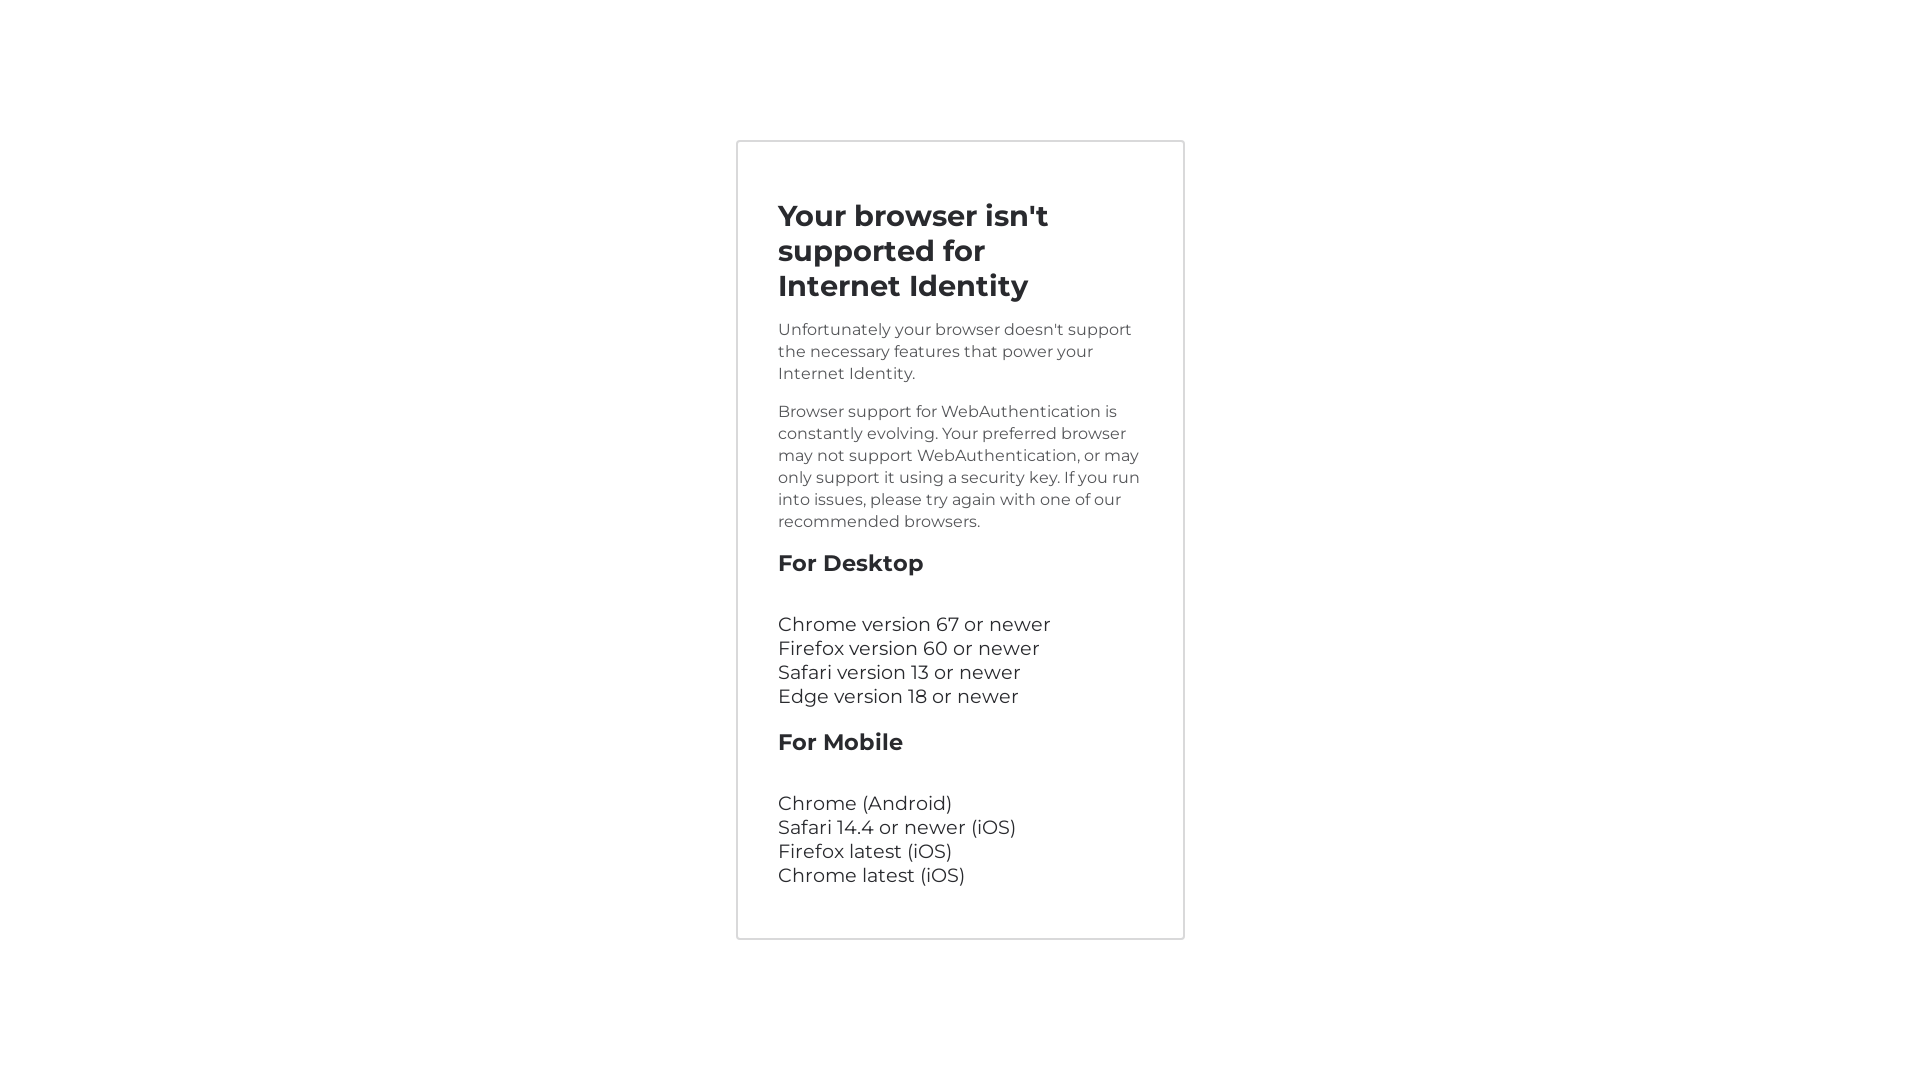
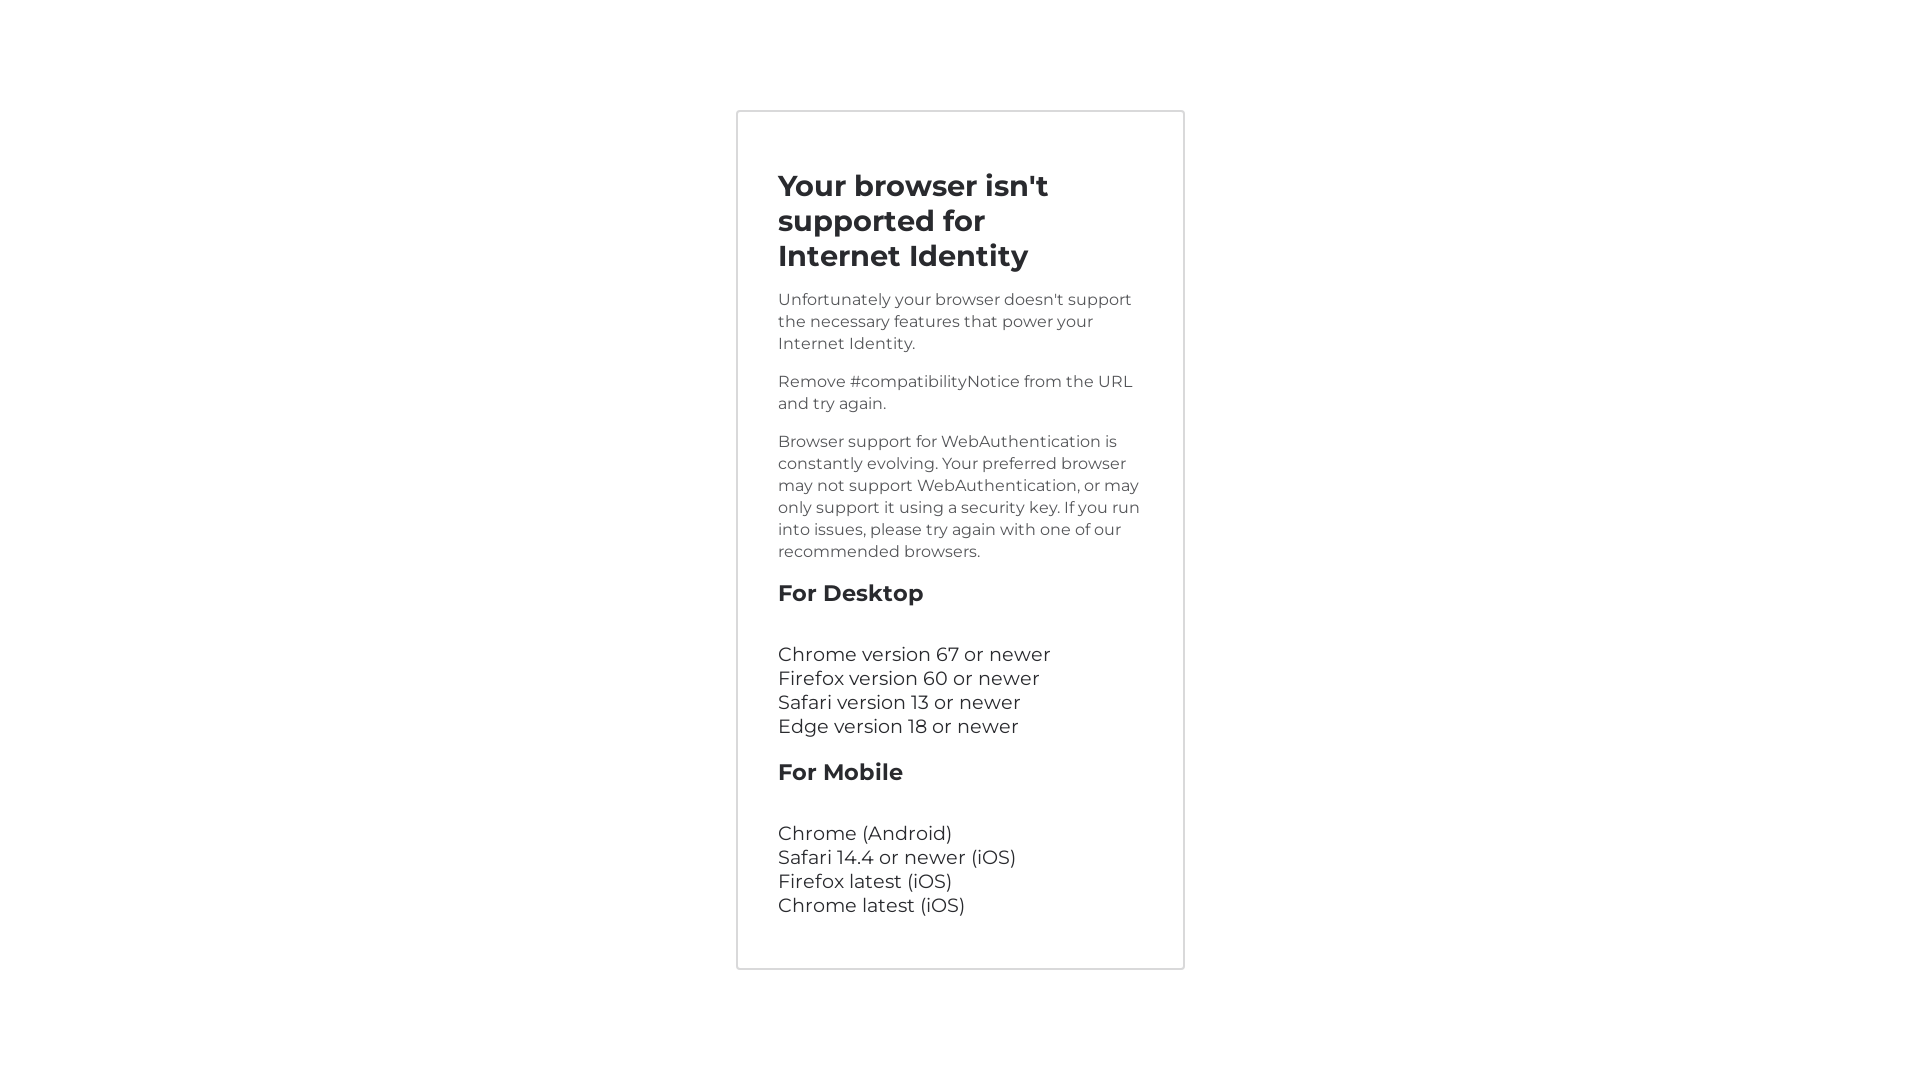
Show reason if feature check fails (#613)
* Show reason if feature check fails

This displays a reason for the feature check (compatibility check) in
the compatibility notice, which should help users understand why their
browser is not supported.

* 🤖 Selenium screenshots auto-update

Changed region(s): [[0.4062, 0.1528, 0.5938, 0.8556]]

diff --git a/src/frontend/src/utils/featureDetection.ts b/src/frontend/src/utils/featureDetection.ts
@@ -1,11 +1,17 @@
-export const hasRequiredFeatures = async (url: URL): Promise<boolean> => {
-  if (window.PublicKeyCredential === undefined) return false;
-  if (url.hash === "#compatibilityNotice") return false;
+export const checkRequiredFeatures = async (
+  url: URL
+): Promise<true | string> => {
+  if (window.PublicKeyCredential === undefined)
+    return "window.PublicKeyCredential is not defined";
+  if (url.hash === "#compatibilityNotice")
+    return "Remove #compatibilityNotice from the URL and try again.";
   // For mobile devices we want to make sure we can use platform authenticators
   if (!navigator.userAgent.match(/(iPhone|iPod|iPad|Android)/)) return true;
   try {
-    return await PublicKeyCredential.isUserVerifyingPlatformAuthenticatorAvailable();
+    return (await PublicKeyCredential.isUserVerifyingPlatformAuthenticatorAvailable())
+      ? true
+      : "UserVerifyingPlatformAuthenticator is not available";
   } catch (error) {
-    return false;
+    return `An error occured when checking for compatibility: ${error.message}`;
   }
 };

diff --git a/src/frontend/src/flows/compatibilityNotice.ts b/src/frontend/src/flows/compatibilityNotice.ts
@@ -2,7 +2,7 @@ import { html, render } from "lit-html";
 import { compatibilityChart } from "../components/compatibilityChart";
 
 // Taken from: https://caniuse.com/?search=PublicKeyCredential
-const pageContent = html`
+const pageContent = (reason: string) => html`
   <style>
     ul {
       list-style-type: none;
@@ -14,13 +14,14 @@ const pageContent = html`
     </h1>
     <p>
       Unfortunately your browser doesn't support the necessary features that
-      power your Internet Identity.
+      power your Internet Identity.<br />
     </p>
+    <p>${reason}</p>
     ${compatibilityChart}
   </div>
 `;
 
-export const compatibilityNotice = (): void => {
+export const compatibilityNotice = (reason: string): void => {
   const container = document.getElementById("pageContent") as HTMLElement;
-  render(pageContent, container);
+  render(pageContent(reason), container);
 };

diff --git a/src/frontend/src/index.ts b/src/frontend/src/index.ts
@@ -6,7 +6,7 @@ import { compatibilityNotice } from "./flows/compatibilityNotice";
 import { aboutView } from "./flows/about";
 import { faqView } from "./flows/faq";
 import { intentFromUrl } from "./utils/userIntent";
-import { hasRequiredFeatures } from "./utils/featureDetection";
+import { checkRequiredFeatures } from "./utils/featureDetection";
 import { recoveryWizard } from "./flows/recovery/recoveryWizard";
 import { showWarningOnFeatures } from "./features";
 
@@ -26,8 +26,9 @@ const init = async () => {
     return aboutView();
   }
 
-  if (!(await hasRequiredFeatures(url))) {
-    return compatibilityNotice();
+  const okOrReason = await checkRequiredFeatures(url);
+  if (okOrReason !== true) {
+    return compatibilityNotice(okOrReason);
   }
 
   // Go through the login flow, potentially creating an anchor.
